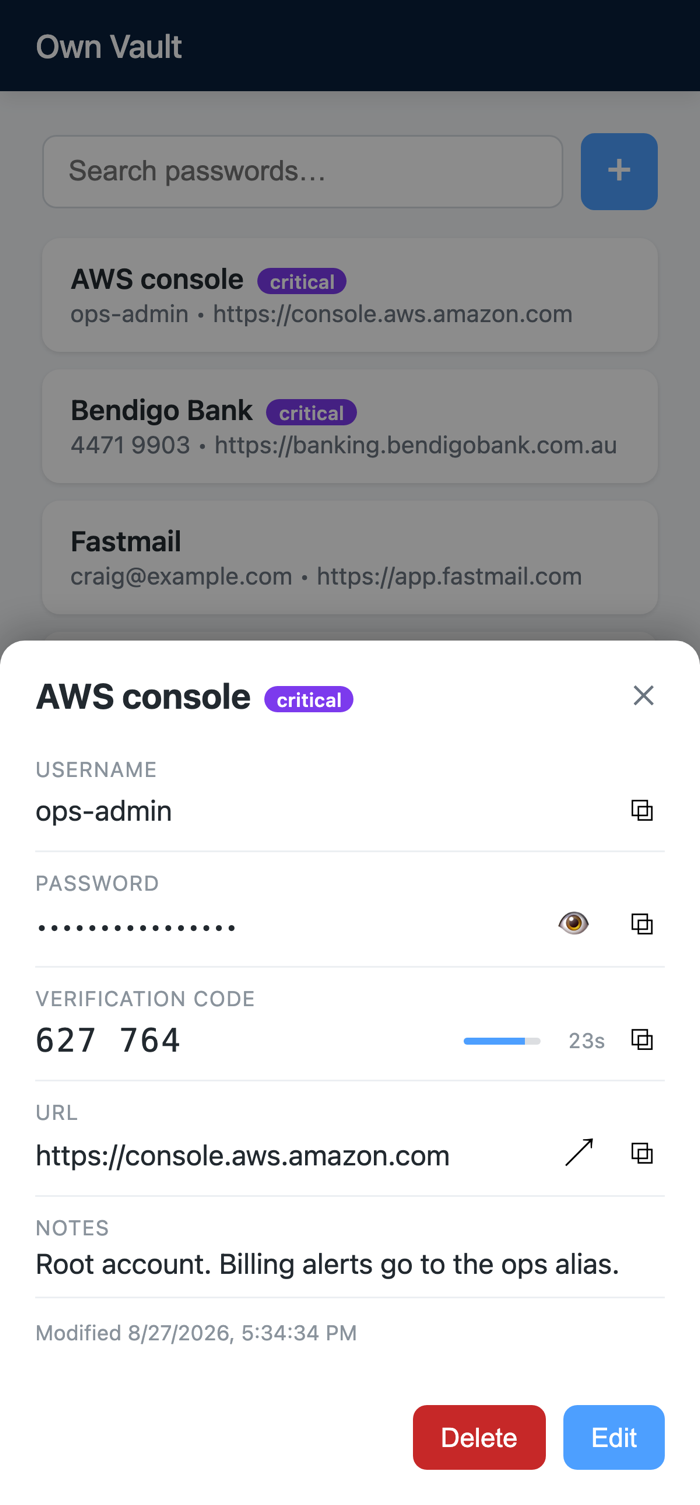
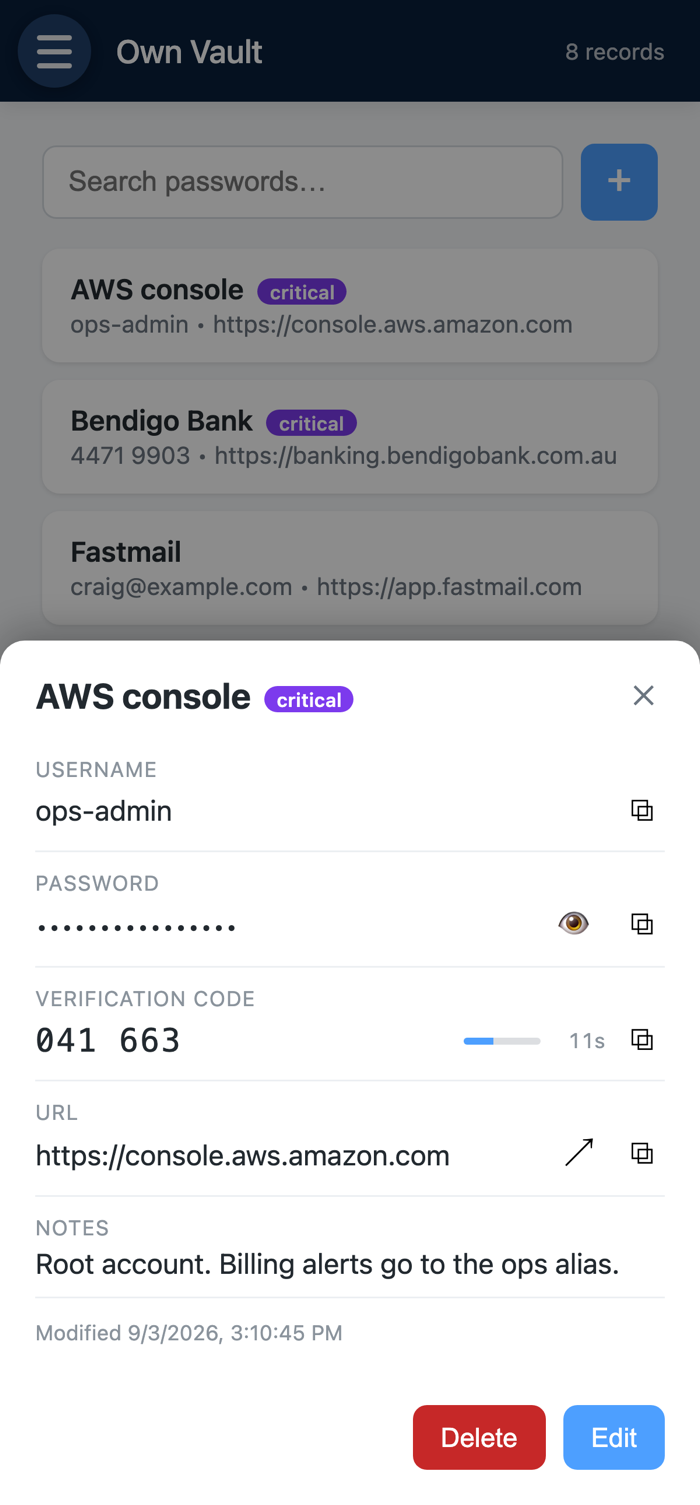
fix(site): repair the screenshot tool and regenerate the images
shots.js opened with an init script setting `syncEnabled` to "0", a
localStorage key deleted when offline-only mode went away. Nothing reads
it any more, so the lock gate opened on the connect step rather than the
create form, and the script sat waiting 20 s for a `#create-form` that
was hidden behind "Start a new vault instead". It now clicks that link,
which is the real path a fresh device takes.

The comment that line carried was the worse artefact: it promised
"nothing is pushed to whatever server is on :8080". Every vault syncs
now, so a run genuinely creates a vault holding the invented logins on
whatever OV_APP_URL names. The header says so and warns to point it at a
throwaway dev server, and a run prints the server it is about to write
to.

The committed screenshots were stale as well as unbuildable: they predate
multi-vault, so the lock screen showed no vault name and no "Switch or
add vault" link, and Settings had no Vault name card. Regenerated all
five.

diff --git a/site/tools/shots.js b/site/tools/shots.js
@@ -7,6 +7,12 @@
 // entries go in through Vault.put — the same API the add form calls, and far
 // more reliable than driving that form eight times.
 //
+// Every vault syncs (there is no offline-only mode), so a run really does
+// create a vault, with these invented logins in it, on whatever server
+// OV_APP_URL points at. Point it at a throwaway dev server — `go run . -dev`,
+// whose database lives beside the temporary build and goes away with it —
+// never at one holding real vaults.
+//
 // Playwright is a dev-only tool, installed on demand by `make shots`. The
 // site itself has no JavaScript and no node_modules.
 
@@ -53,15 +59,17 @@ const wait = ms => new Promise(r => setTimeout(r, ms));
   const browser = await chromium.launch();
   const ctx = await browser.newContext({ viewport: VIEWPORT, deviceScaleFactor: SCALE });
 
-  // Sync off, so the lock gate opens on "create a vault" rather than the
-  // connect step, and nothing is pushed to whatever server is on :8080.
-  await ctx.addInitScript(() => localStorage.setItem('syncEnabled', '0'));
-
   const page = await ctx.newPage();
   const shot = name => page.screenshot({ path: path.join(OUT, name + '.png') })
     .then(() => console.log('  ' + name + '.png'));
 
+  console.log('creating a demo vault on ' + APP);
   await page.goto(APP + '/');
+  // A device with no vaults opens on the CONNECT step. "Start a new vault
+  // instead" probes the server for a token it does not need here, then shows
+  // the create form.
+  await page.waitForSelector('#connect-form:not([hidden])', { timeout: 20000 });
+  await page.click('#connect-create');
   await page.waitForSelector('#create-form:not([hidden])', { timeout: 20000 });
 
   await page.fill('#create-name', 'Home');
